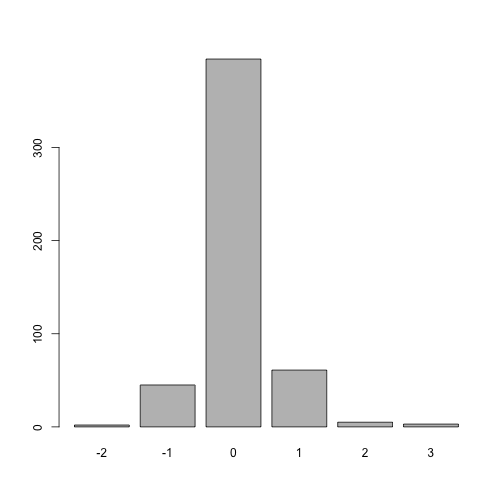
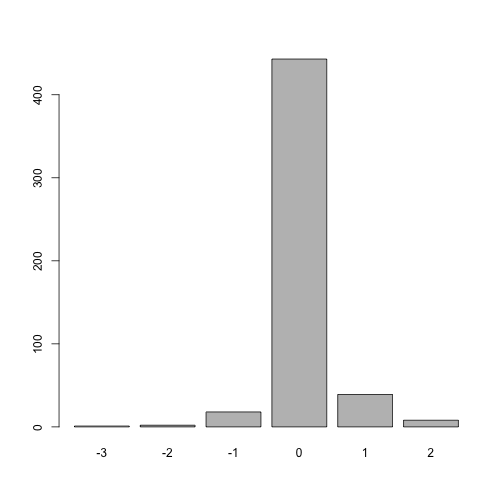
Ran run_controversy.R a 2nd time

diff --git a/hw/data-analysis-02/EDA/simply/simplystats.html b/hw/data-analysis-02/EDA/simply/simplystats.html
@@ -219,7 +219,7 @@ summary(simply)
 ##  Length:511         Min.   :1.00   Min.   :1.00  
 ##  Class :character   1st Qu.:1.00   1st Qu.:1.00  
 ##  Mode  :character   Median :1.00   Median :1.00  
-##                     Mean   :1.68   Mean   :1.62  
+##                     Mean   :1.62   Mean   :1.56  
 ##                     3rd Qu.:2.00   3rd Qu.:2.00  
 ##                     Max.   :5.00   Max.   :5.00
 </code></pre>
@@ -271,19 +271,19 @@ t.test(posts$leo1, posts$leo2, paired = TRUE)
 ##  Paired t-test
 ## 
 ## data:  posts$leo1 and posts$leo2 
-## t = 2.455, df = 510, p-value = 0.01442
+## t = 2.936, df = 510, p-value = 0.00348
 ## alternative hypothesis: true difference in means is not equal to 0 
 ## 95 percent confidence interval:
-##  0.01212 0.10921 
+##  0.01942 0.09800 
 ## sample estimates:
 ## mean of the differences 
-##                 0.06067
+##                 0.05871
 </code></pre>
 
 <pre><code class="r">barplot(table(posts$leo1 - posts$leo2))
 </code></pre>
 
[2 lines of base64/hex data omitted]
 
 <pre><code class="r">
 ## Mean controvery ranking
@@ -294,7 +294,7 @@ posts$cont &lt;- rowMeans(posts[, c(&quot;leo1&quot;, &quot;leo2&quot;)])
 barplot(table(posts$cont))
 </code></pre>
 
[2 lines of base64/hex data omitted]
 
 <pre><code class="r">
 ## Save posts for later use

diff --git a/hw/data-analysis-02/EDA/simply/simplystats.md b/hw/data-analysis-02/EDA/simply/simplystats.md
@@ -45,7 +45,7 @@ summary(posts)
 ##  Length:511         Min.   :1.00   Min.   :1.00  
 ##  Class :character   1st Qu.:1.00   1st Qu.:1.00  
 ##  Mode  :character   Median :1.00   Median :1.00  
-##                     Mean   :1.68   Mean   :1.62  
+##                     Mean   :1.62   Mean   :1.56  
 ##                     3rd Qu.:2.00   3rd Qu.:2.00  
 ##                     Max.   :5.00   Max.   :5.00
 ```
@@ -104,13 +104,13 @@ t.test(posts$leo1, posts$leo2, paired = TRUE)
 ## 	Paired t-test
 ## 
 ## data:  posts$leo1 and posts$leo2 
-## t = 2.455, df = 510, p-value = 0.01442
+## t = 2.936, df = 510, p-value = 0.00348
 ## alternative hypothesis: true difference in means is not equal to 0 
 ## 95 percent confidence interval:
-##  0.01212 0.10921 
+##  0.01942 0.09800 
 ## sample estimates:
 ## mean of the differences 
-##                 0.06067
+##                 0.05871
 ```
 
 ```r
